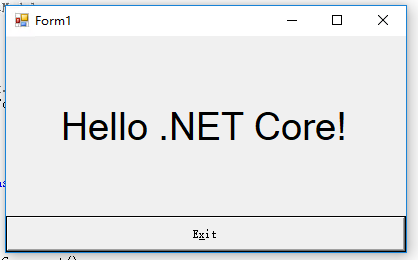
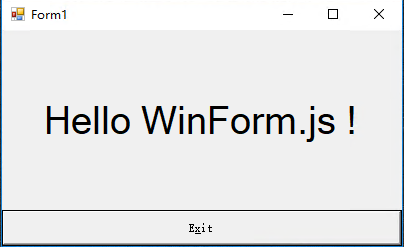
更新图片和项目模板

diff --git a/hello-winform/Form1.Designer.cs b/hello-winform/Form1.Designer.cs
@@ -40,7 +40,7 @@
             this.label1.Name = "label1";
             this.label1.Size = new System.Drawing.Size(800, 376);
             this.label1.TabIndex = 1;
-            this.label1.Text = "Hello .NET Core!";
+            this.label1.Text = "Hello WinForm.js !";
             this.label1.TextAlign = System.Drawing.ContentAlignment.MiddleCenter;
             // 
             // buttonExit
